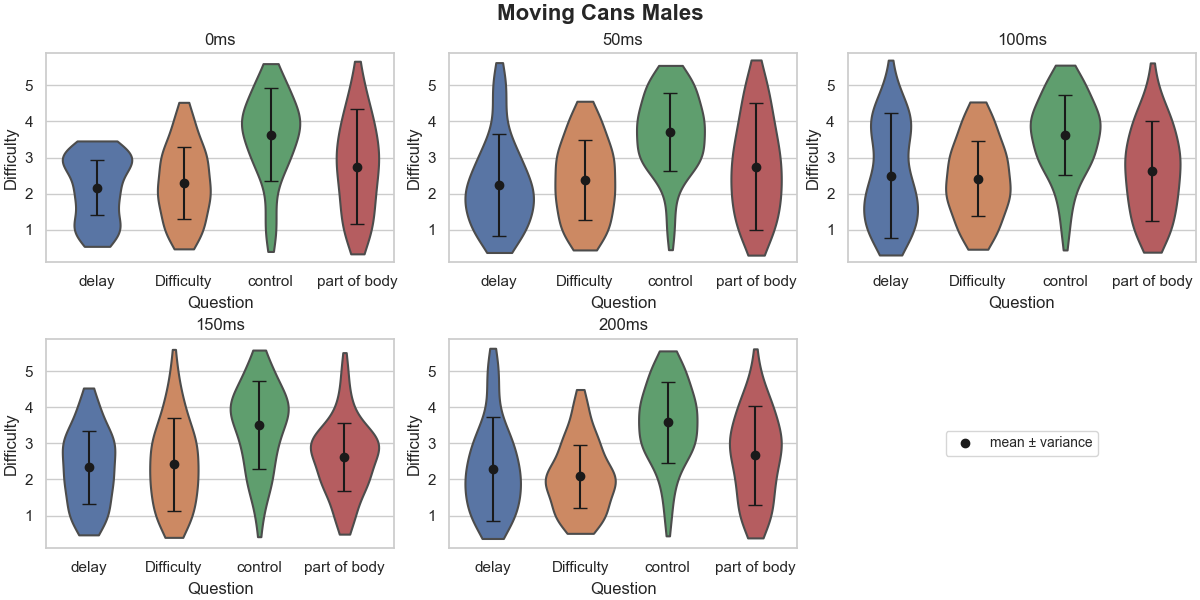
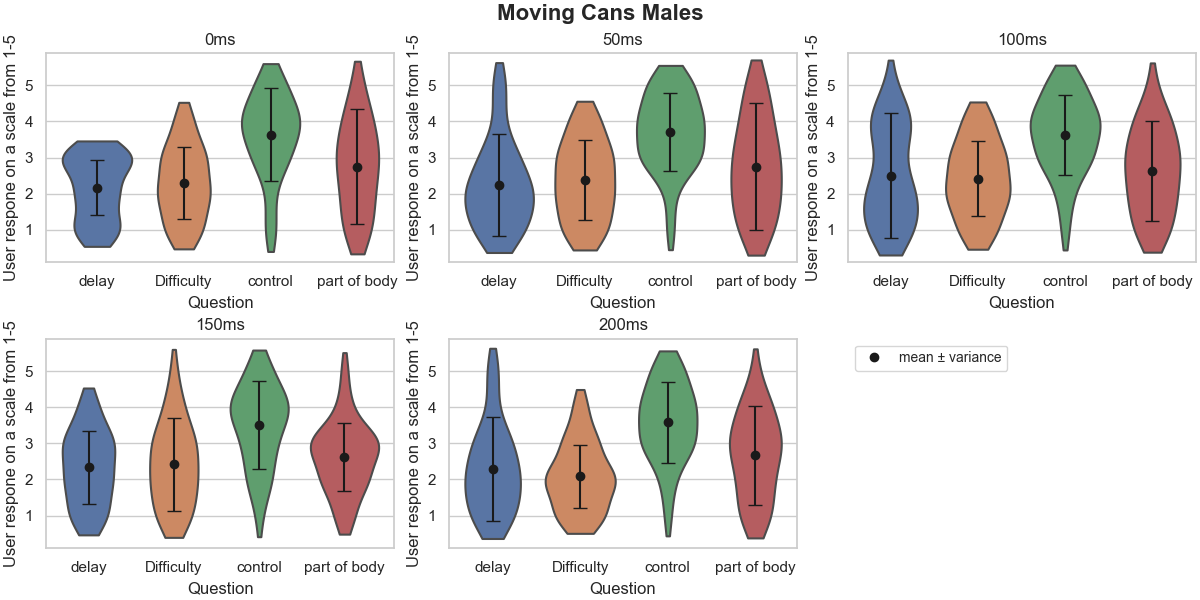
two way anova
asd

diff --git a/anovatesting/anova.py b/anovatesting/anova.py
@@ -1,0 +1,168 @@
+import pandas as pd
+import seaborn as sns
+import matplotlib.pyplot as plt
+import matplotlib.gridspec as gridspec
+import matplotlib
+import numpy as np
+import os
+import argparse
+import re
+import statsmodels.api as sm
+from statsmodels.formula.api import ols
+from typing import Optional, Sequence, Tuple, Union
+
+
+
+saveGraphs = False
+showGraphs = True 
+saveExcel = False
+
+
+def select_first5_then_every4th(df: pd.DataFrame) -> pd.DataFrame:
+    n = df.shape[1]
+    # first five columns (0-based indices 0..4)
+    first_five = list(range(0, min(5, n)))
+    # every 4th column starting from column 6 (0-based index 5)
+    every_4_from_6 = list(range(5, n, 4))
+    keep_idx = first_five + every_4_from_6
+    return df.iloc[:, keep_idx]
+
+
+def twowayanova(df):
+    
+    
+    
+    categories = ["delay", "difficulty", "control", "feel"]
+    
+    column_map = []
+        
+    for x in range(5):
+    
+        new_list = [s + str(x) for s in categories]
+         
+        column_map += new_list
+    
+    
+    
+    
+    df.loc[df['age'] <= 24, 'age'] = 24
+    df.loc[df['age'] >= 25, 'age'] = 25
+    
+    print(df)
+    
+    melted = df.melt(id_vars=["gender", "age"], value_vars=["delay_0", "delay_1", "delay_2", "delay_3", "delay_4"],
+                 var_name="delay", value_name="response")           
+    model = ols('response ~ C(delay) + C(gender) + C(delay):C(gender)', data=melted).fit()
+    anova_result = sm.stats.anova_lm(model, type=2)
+    print("Two way anova results between age, delay for delay response")
+    print(anova_result)
+    print()    
+    
+    
+    
+    melted = df.melt(id_vars=["gender", "age"], value_vars=["difficulty_0", "difficulty_1", "difficulty_2", "difficulty_3", "difficulty_4"],
+                 var_name="delay", value_name="response")           
+    model = ols('response ~ C(delay) + C(gender) + C(delay):C(gender)', data=melted).fit()
+    anova_result = sm.stats.anova_lm(model, type=2)
+    print("Two way anova results between age, delay for difficulty response")
+    print(anova_result)
+    print()
+    
+    anova_result.to_excel('Two way anova results between age, delay for difficulty response.xlsx',  index=False)
+
+
+    melted = df.melt(id_vars=["gender", "gender"], value_vars=["control_0", "control_1", "control_2", "control_3", "control_4"],
+                 var_name="delay", value_name="response")
+                 
+                 
+    model = ols('response ~ C(delay) + C(gender) + C(delay):C(gender)', data=melted).fit()
+    anova_result = sm.stats.anova_lm(model, type=2)
+    print("Two way anova results between age, delay for control")
+    print(anova_result)
+    print()
+
+
+    melted = df.melt(id_vars=["gender", "gender"], value_vars=["body_0", "body_1", "body_2", "body_3", "body_4"],
+                 var_name="delay", value_name="response")
+                 
+                 
+    model = ols('response ~ C(delay) + C(gender) + C(delay):C(gender)', data=melted).fit()
+    anova_result = sm.stats.anova_lm(model, type=2)
+    print("Two way anova results between age, delay for body/feel response")
+    print(anova_result)
+    print()
+
+      
+
+
+
+   
+parser = argparse.ArgumentParser()
+parser.add_argument('--hide', action='store_true', default=False, help='Show graphs (True/False)')
+parser.add_argument('--save', action='store_true', default=False, help='save graphs (True/False)') 
+parser.add_argument('--saveExcel', action='store_true', default=False, help='save excel sheets of the filtered data (True/False)')        
+args = parser.parse_args()
+
+if args.hide:
+    print("Graphs will be hidden")
+    showGraphs = False
+
+if args.save:
+    print("Graphs will be saved as png")
+    saveGraphs = args.save
+    
+if args.saveExcel:
+    print("excell sheets will be saved")
+    saveExcel = args.saveExcel
+
+
+parent_dir = os.path.dirname(os.getcwd())  
+filePath = f"{parent_dir}\data\questionnaire_data-561422-2025-11-17-1240.xlsx"
+df = pd.read_excel(filePath)
+
+_base_map = {
+    'Participant number': 'participant_id',
+    'What is your gender': 'gender',
+    'How old are you?': 'age',
+    'What is your dominant hand?': 'dominant_hand',
+    'How experienced are you with robotic systems?': 'robotics_experience',
+    'Did you experience delays between your actions and the robot\'s movements?': 'delay',
+    'How difficult was it to perform the task?': 'difficulty',
+    'I felt like I was controlling the movement of the robot': 'control',
+    'It felt like the robot was part of my body': 'body'
+}
+
+repeating_keys = {'delay','difficulty','control','body'}
+rename_map = {}
+for col in df.columns:
+    if col.startswith('$'):  # keep metadata columns unchanged
+        continue
+    # Remove HTML entity artifacts
+    col_clean = col.replace('&#39;', "'")
+    # Extract suffix like .1, .2, etc.
+    m = re.search(r'\.(\d+)$', col_clean)
+    base = re.sub(r'\.(\d+)$', '', col_clean)
+    short = _base_map.get(base, None)
+    if short is None:
+        # If unknown and not metadata, create a generic snake_case key
+        generic = re.sub(r'[^A-Za-z0-9]+', '_', base).strip('_').lower()
+        short = generic or base.lower()
+    if m:
+        suffix = f"_{m.group(1)}"  # condition index from original numbering
+    elif short in repeating_keys:
+        suffix = "_0"  # first occurrence without explicit suffix
+    else:
+        suffix = ""
+    rename_map[col] = short + suffix
+
+df = df.rename(columns=rename_map)
+
+df.drop(columns=df.columns[df.columns.str.contains(r'\$')], inplace=True)
+
+
+
+
+
+twowayanova(df)
+
+

diff --git a/Violingraphs/violingraph.py b/Violingraphs/violingraph.py
@@ -59,7 +59,7 @@ def makeViolinGraphs(dfs, title='violingraph'):
         # replace xtick labels with your display names
         ax.set_xticklabels(display_labels)
         ax.set_xlabel('Question')
-        ax.set_ylabel('Difficulty')
+        ax.set_ylabel('User respone on a scale from 1-5')
         ax.set_title(delay[i])
         ax.axis(ymin=0.1,ymax=5.9)
         
@@ -73,7 +73,7 @@ def makeViolinGraphs(dfs, title='violingraph'):
     legend_ax.set_axis_on()           # temporarily enable axis for placing legend
     legend_ax.axis('off')             # hide ticks & frame but keep area
     legend_ax.legend(legend_handles, legend_labels,
-                     loc='center', frameon=True, fontsize=10)
+                     loc='upper left', frameon=True, fontsize=10)
     
     if saveGraphs:
         plt.savefig(title)
@@ -137,7 +137,7 @@ def ageGroups(df):
 
     dfOld = df[df["How old are you?"] >= 25]
     dfs = [dfOld.iloc[:, i : i + 4] for i in range(5, 25, 4)]
-    makeViolinGraphs(dfs, 'Moving Cans age 25 or more')
+    makeViolinGraphs(dfs, 'Moving Cubes age 25 or more')
     dfs = [dfOld.iloc[:, i : i + 4] for i in range(25, 45, 4)]
     makeViolinGraphs(dfs, 'Moving Cans age 25 or more')
     

diff --git a/Violingraphs/comparison.py b/Violingraphs/comparison.py
@@ -223,6 +223,9 @@ def genderGroups(df):
     
     
     
+    
+    
+    
     fig, ax = violin_compare_two(
         delayMale,
         delayFemale,
@@ -300,9 +303,21 @@ def genderGroups(df):
     plt.show()
     
     
+    
+def twowayanova(df):
+    
+    
+    columns_to_keep = ['How old are you?', 'What is your gender']
+    df_subset = df[columns_to_keep]
 
-
-            
+    df_subset.loc[df['How old are you?'] <= 24, 'How old are you?'] = 24
+    df_subset.loc[df['How old are you?'] >= 25, 'How old are you?'] = 25
+    
+    
+    
+    print(df_subset)
+    
+      
             
             
             
